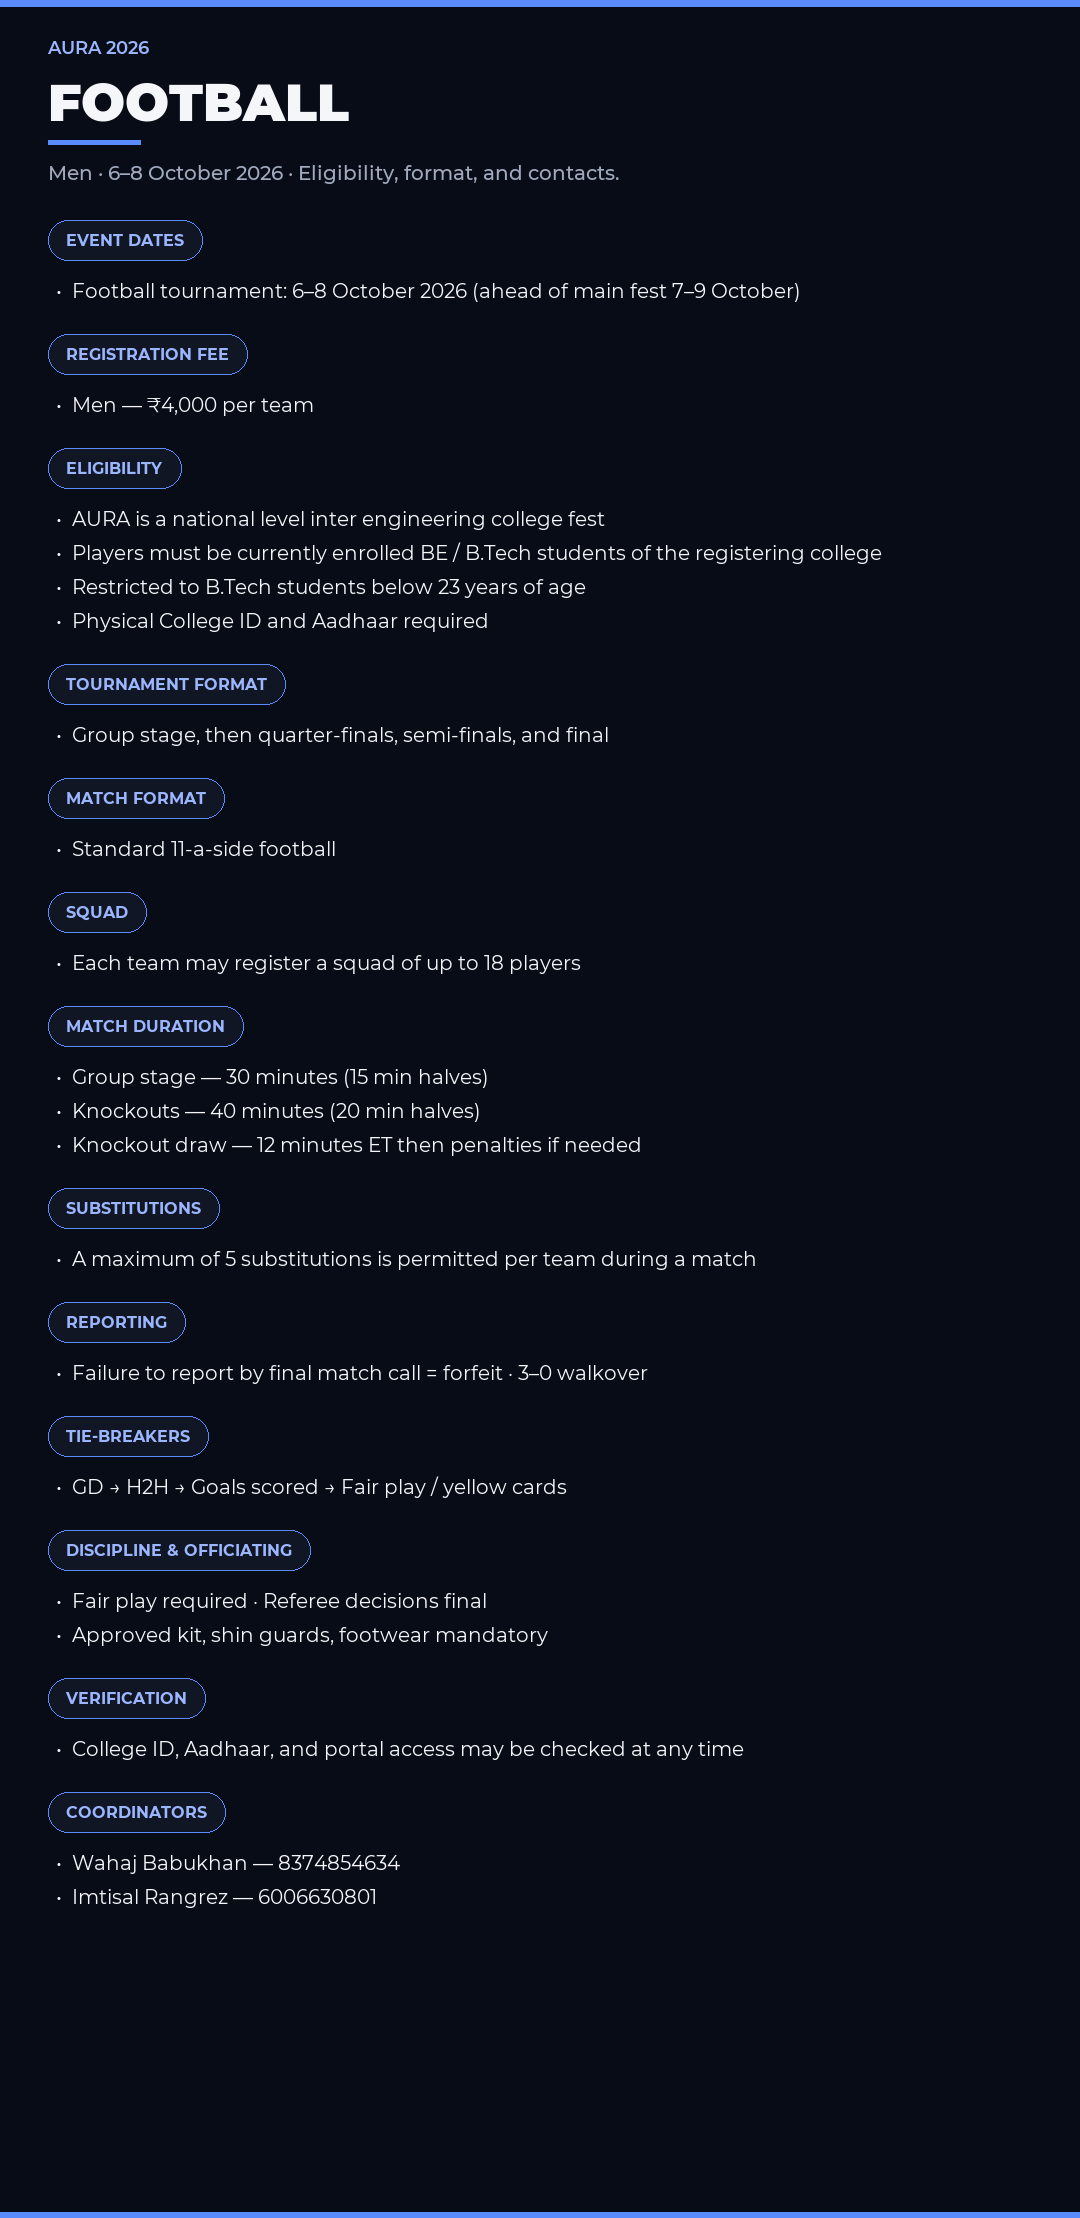
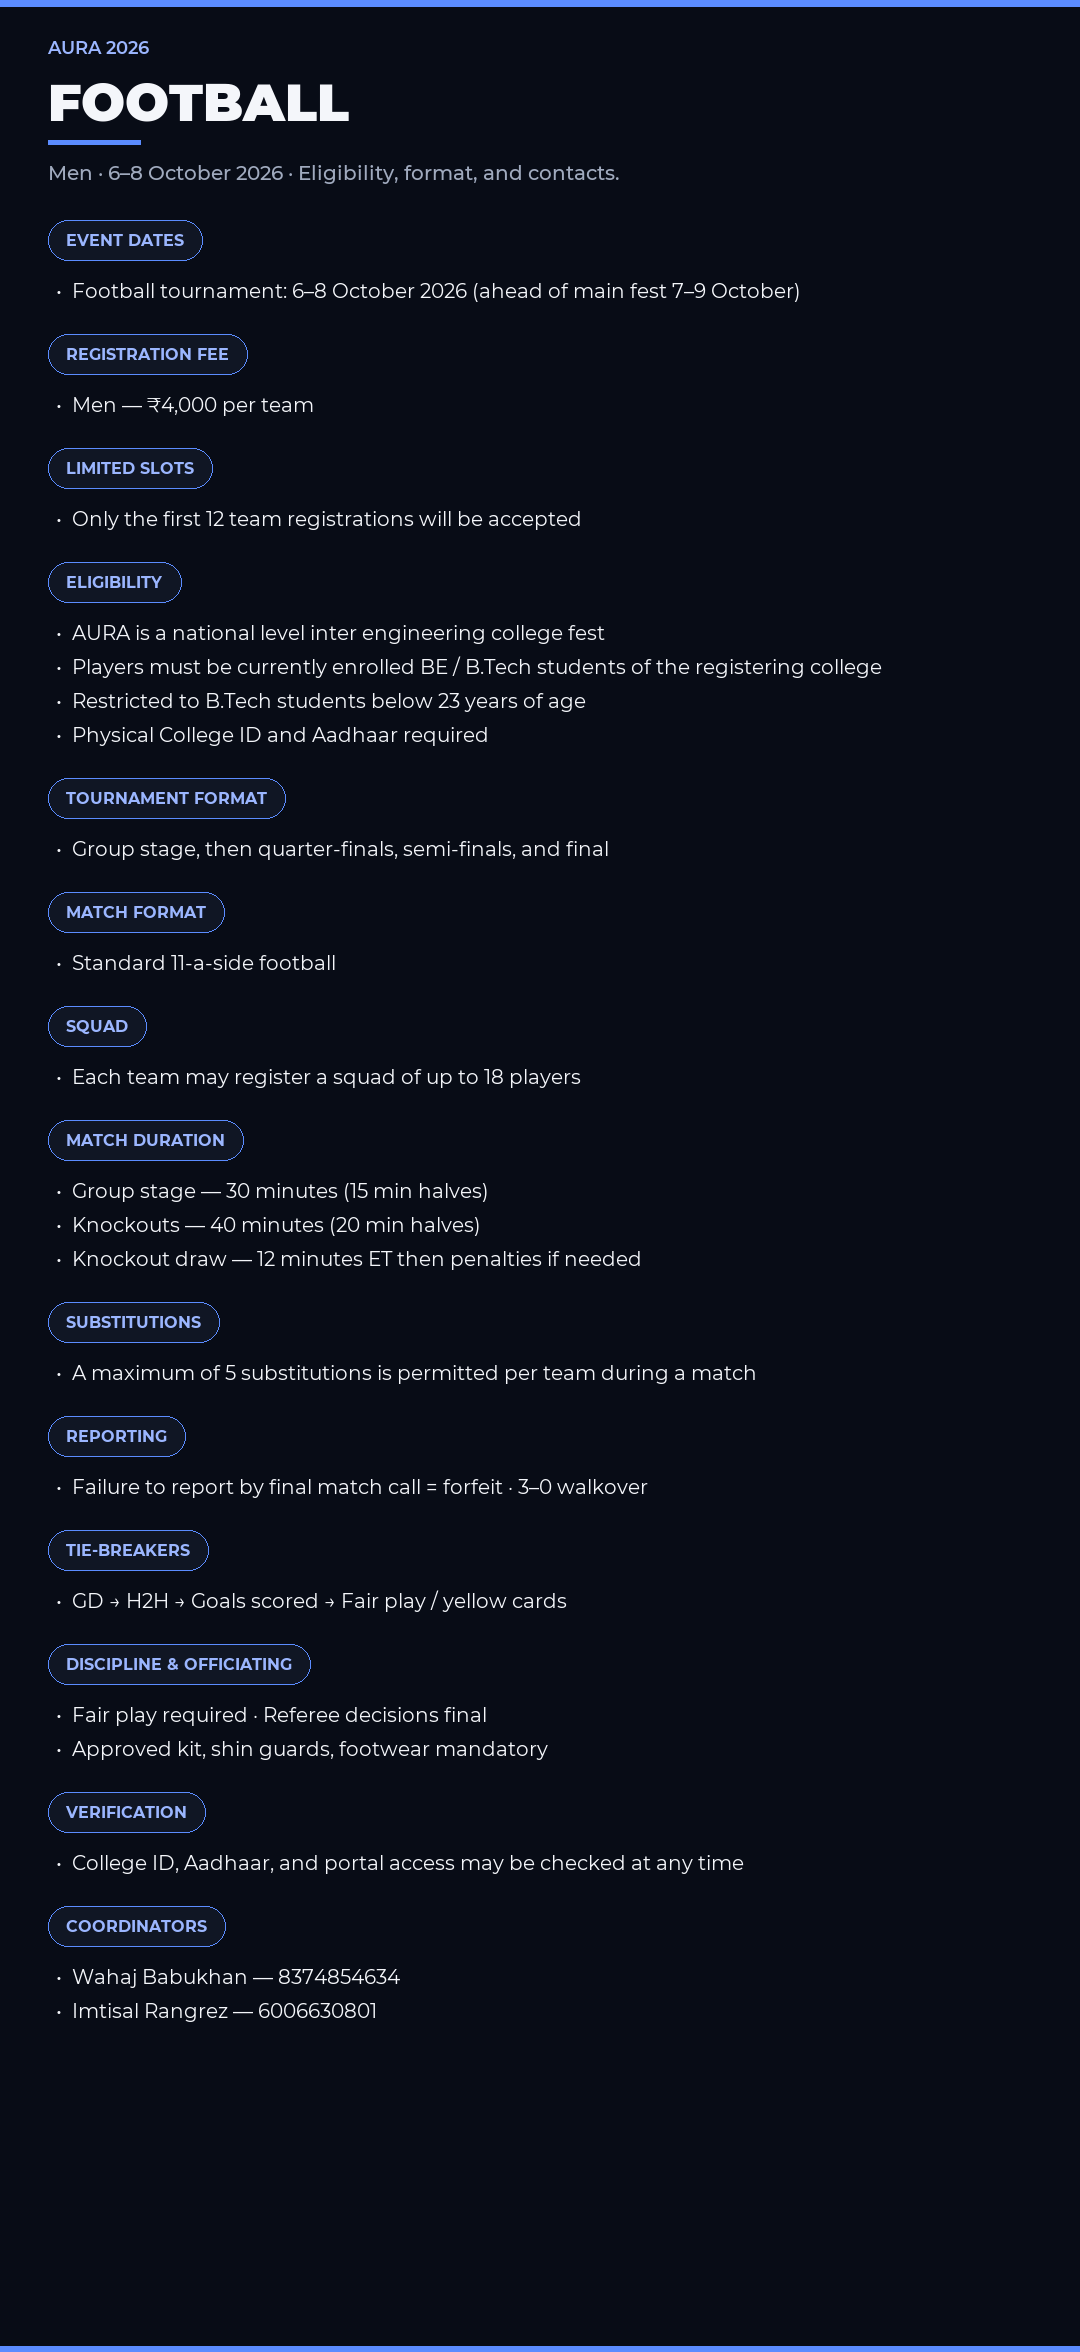
Cap Football at first 12 team registrations.
Surfaces the cap in the register flow's sport-date banner (via
eventDatesNote), a new amber "First 12 teams only" tag + note on the
homepage Football card, and a LIMITED SLOTS section on the football
rules sheet.

diff --git a/index.html b/index.html
@@ -387,8 +387,8 @@
             </div>
             <div class="sport-body">
               <h3>Football</h3>
-              <div class="sport-tags"><span class="tag tag-men">Men</span><span class="tag tag-outdoor">Outdoor</span><span class="tag">6–8 Oct</span></div>
-              <p>Played <strong>6–8 October 2026</strong> (earlier than the main fest window). Full-field knockout energy.</p>
+              <div class="sport-tags"><span class="tag tag-men">Men</span><span class="tag tag-outdoor">Outdoor</span><span class="tag">6–8 Oct</span><span class="tag tag-limited">First 12 teams only</span></div>
+              <p>Played <strong>6–8 October 2026</strong> (earlier than the main fest window). Full-field knockout energy. <strong>Only the first 12 team registrations will be accepted.</strong></p>
               <div class="sport-foot">
                 <a class="soon" href="rules.html?sport=football" style="text-decoration:none">View rules →</a>
                 <span class="type">Team</span>

diff --git a/css/styles.css b/css/styles.css
@@ -810,6 +810,7 @@ body.has-preview-banner .hero-cinematic { padding-top: calc(var(--nav-h) + var(-
 .tag-women { background: rgba(180, 80, 160, 0.1); color: #9a3a88; }
 .tag-outdoor { background: rgba(30, 130, 95, 0.1); color: #187a52; }
 .tag-indoor { background: rgba(110, 85, 190, 0.1); color: #5540a8; }
+.tag-limited { background: rgba(255, 143, 61, 0.14); color: #c25a10; }
 .sport-body p { font-size: 0.88rem; color: #5a6785; line-height: 1.5; }
 .sport-foot {
   margin-top: auto; padding-top: 0.7rem;

diff --git a/js/config.js b/js/config.js
@@ -105,7 +105,8 @@ window.AURA_CONFIG = {
       feeRupees: 4000,
       eventDates: "6–8 October 2026",
       eventDatesNote:
-        "Football is scheduled 6–8 October 2026 (ahead of the main fest window of 7–9 October).",
+        "Football is scheduled 6–8 October 2026 (ahead of the main fest window of 7–9 October). Only the first 12 team registrations will be accepted.",
+      capacityNote: "Limited to the first 12 team registrations.",
     },
     {
       id: "volleyball",
